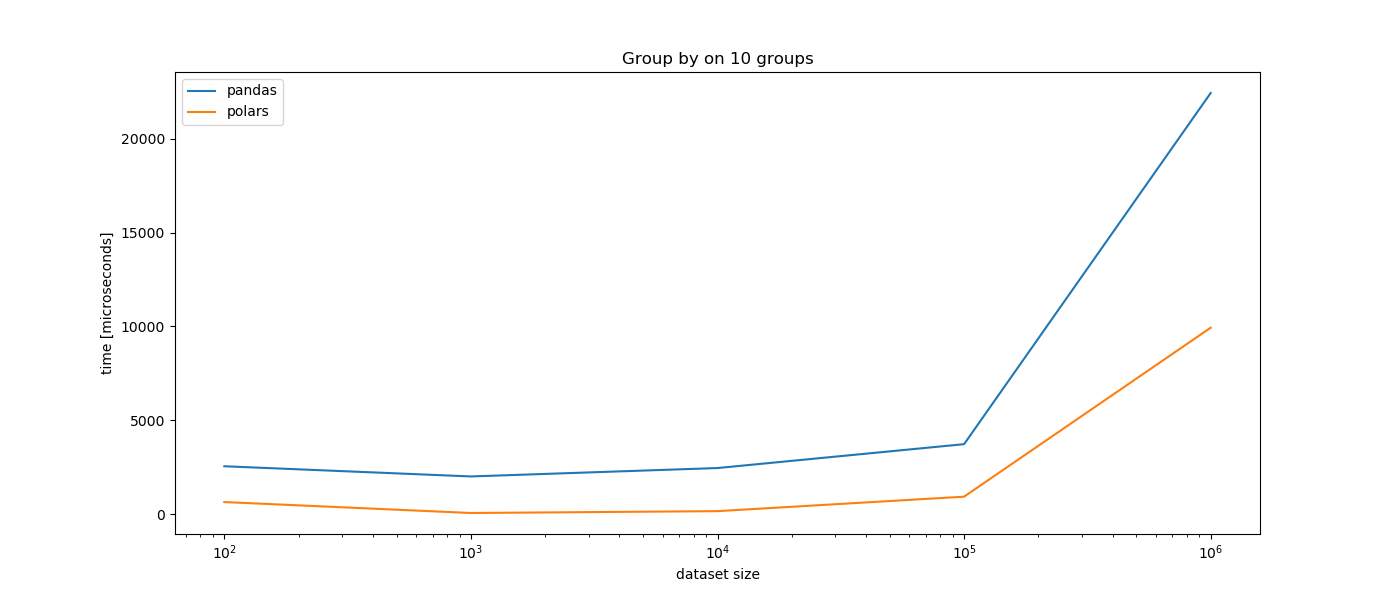
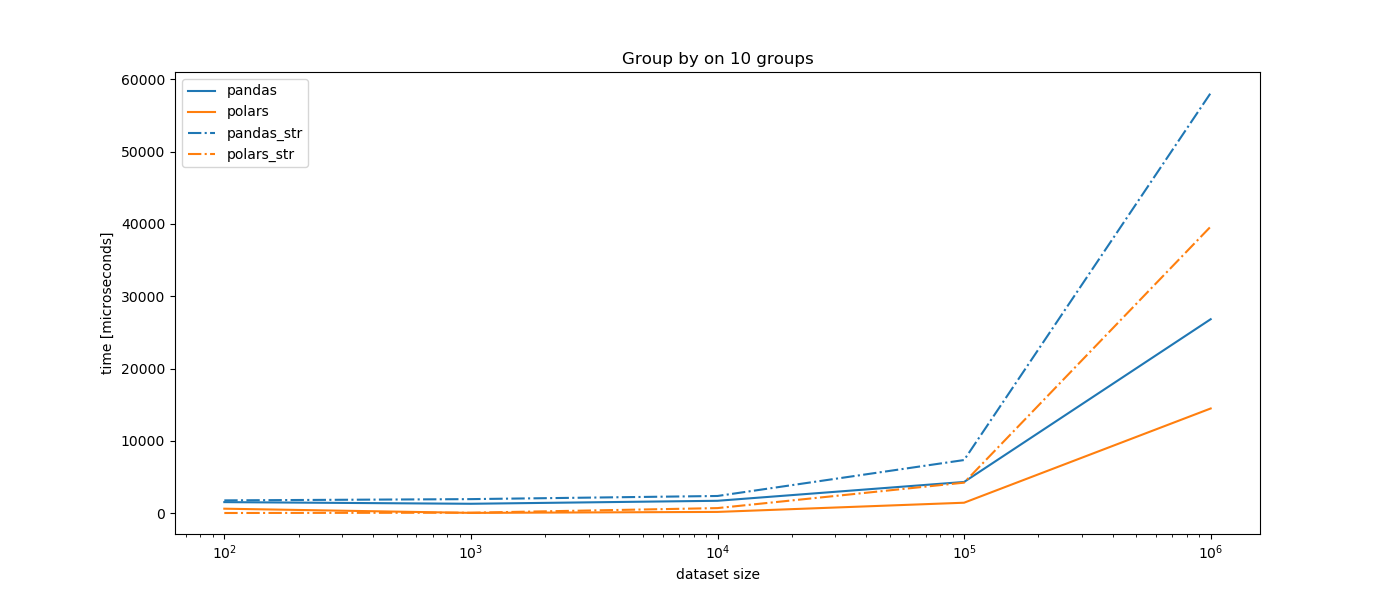
add string comparison for groupby

diff --git a/polars/src/series/series.rs b/polars/src/series/series.rs
@@ -400,30 +400,46 @@ pub trait NamedFrom<T> {
 
 macro_rules! impl_named_from {
     ($type:ty, $series_var:ident, $method:ident) => {
-        impl NamedFrom<&[$type]> for Series {
-            fn init(name: &str, v: &[$type]) -> Self {
+        impl NamedFrom<$type> for Series {
+            fn init(name: &str, v: $type) -> Self {
                 Series::$series_var(ChunkedArray::$method(name, v))
             }
         }
     };
 }
 
-impl_named_from!(&str, Utf8, new_utf8_from_slice);
-impl_named_from!(String, Utf8, new_utf8_from_slice);
-impl_named_from!(bool, Bool, new_from_slice);
-impl_named_from!(u32, UInt32, new_from_slice);
-impl_named_from!(i32, Int32, new_from_slice);
-impl_named_from!(i64, Int64, new_from_slice);
-impl_named_from!(f32, Float32, new_from_slice);
-impl_named_from!(f64, Float64, new_from_slice);
-impl_named_from!(Option<String>, Utf8, new_utf8_from_opt_slice);
-impl_named_from!(Option<&str>, Utf8, new_utf8_from_opt_slice);
-impl_named_from!(Option<bool>, Bool, new_from_opt_slice);
-impl_named_from!(Option<u32>, UInt32, new_from_opt_slice);
-impl_named_from!(Option<i32>, Int32, new_from_opt_slice);
-impl_named_from!(Option<i64>, Int64, new_from_opt_slice);
-impl_named_from!(Option<f32>, Float32, new_from_opt_slice);
-impl_named_from!(Option<f64>, Float64, new_from_opt_slice);
+impl_named_from!(&[&str], Utf8, new_utf8_from_slice);
+impl_named_from!(&Vec<&str>, Utf8, new_utf8_from_slice);
+impl_named_from!(&[String], Utf8, new_utf8_from_slice);
+impl_named_from!(&Vec<String>, Utf8, new_utf8_from_slice);
+impl_named_from!(&[bool], Bool, new_from_slice);
+impl_named_from!(&Vec<bool>, Bool, new_from_slice);
+impl_named_from!(&[u32], UInt32, new_from_slice);
+impl_named_from!(&Vec<u32>, UInt32, new_from_slice);
+impl_named_from!(&[i32], Int32, new_from_slice);
+impl_named_from!(&Vec<i32>, Int32, new_from_slice);
+impl_named_from!(&[i64], Int64, new_from_slice);
+impl_named_from!(&Vec<i64>, Int64, new_from_slice);
+impl_named_from!(&[f32], Float32, new_from_slice);
+impl_named_from!(&Vec<f32>, Float32, new_from_slice);
+impl_named_from!(&[f64], Float64, new_from_slice);
+impl_named_from!(&Vec<f64>, Float64, new_from_slice);
+impl_named_from!(&[Option<String>], Utf8, new_utf8_from_opt_slice);
+impl_named_from!(&Vec<Option<String>>, Utf8, new_utf8_from_opt_slice);
+impl_named_from!(&Vec<Option<&str>>, Utf8, new_utf8_from_opt_slice);
+impl_named_from!(&[Option<&str>], Utf8, new_utf8_from_opt_slice);
+impl_named_from!(&[Option<bool>], Bool, new_from_opt_slice);
+impl_named_from!(&Vec<Option<bool>>, Bool, new_from_opt_slice);
+impl_named_from!(&[Option<u32>], UInt32, new_from_opt_slice);
+impl_named_from!(&Vec<Option<u32>>, UInt32, new_from_opt_slice);
+impl_named_from!(&[Option<i32>], Int32, new_from_opt_slice);
+impl_named_from!(&Vec<Option<i32>>, Int32, new_from_opt_slice);
+impl_named_from!(&[Option<i64>], Int64, new_from_opt_slice);
+impl_named_from!(&Vec<Option<i64>>, Int64, new_from_opt_slice);
+impl_named_from!(&[Option<f32>], Float32, new_from_opt_slice);
+impl_named_from!(&Vec<Option<f32>>, Float32, new_from_opt_slice);
+impl_named_from!(&[Option<f64>], Float64, new_from_opt_slice);
+impl_named_from!(&Vec<Option<f64>>, Float64, new_from_opt_slice);
 
 macro_rules! impl_as_ref_ca {
     ($type:ident, $series_var:ident) => {

diff --git a/pandas_cmp/src/main.rs b/pandas_cmp/src/main.rs
@@ -1,11 +1,29 @@
 use glob::glob;
 use polars::prelude::*;
+use std::env;
 use std::fs::{canonicalize, File};
 use std::io::Write;
+use std::process::exit;
 use std::time::Instant;
 
-fn main() {
-    println!("Current directory: {:?}", canonicalize("."));
+fn read_df(f: &File) -> DataFrame {
+    let mut df = CsvReader::new(f)
+        .infer_schema(Some(100))
+        .has_header(true)
+        .finish()
+        .expect("dataframe");
+    let s = df
+        .f_select_mut("str")
+        .i64()
+        .expect("i64")
+        .iter()
+        .map(|v| v.map(|v| format!("{}", v)));
+    let s: Series = Series::init("str", &s.collect::<Vec<_>>());
+    df.replace("str", s);
+    df
+}
+
+fn bench_groupby() {
     let paths = glob("../data/1*.csv")
         .expect("valid glob")
         .map(|v| v.expect("path"));
@@ -13,22 +31,62 @@ fn main() {
     paths.sort();
 
     let mut wrt_file = File::create("../data/rust_bench.txt").expect("file");
+    let mut wrt_file_str = File::create("../data/rust_bench_str.txt").expect("file");
 
     for p in &paths {
         let f = File::open(p).expect("a csv file");
-        let df = CsvReader::new(f)
-            .infer_schema(Some(100))
-            .has_header(true)
-            .finish()
-            .expect("dataframe");
+        let df = read_df(&f);
 
         let now = Instant::now();
         let sum = df.groupby("groups").expect("gb").select("values").sum();
         let duration = now.elapsed().as_micros();
-        println!("{:?}", sum);
+
+        let now = Instant::now();
+        let sum_str = df.groupby("str").expect("gb").select("values").sum();
+        let duration_str = now.elapsed().as_micros();
+        println!("{:?}", (sum, sum_str));
         println!("{:?}", (p, duration));
         wrt_file
             .write(&format!("{}\n", duration).as_bytes())
             .expect("write to file");
+        wrt_file_str
+            .write(&format!("{}\n", duration_str).as_bytes())
+            .expect("write to file");
+    }
+}
+
+fn bench_join() {
+    let f = File::open("../data/100.csv").expect("file");
+    let df = read_df(&f);
+    println!("{:?}", df);
+}
+
+fn print_cli() {
+    println!(
+        "
+cargo run [args]
+
+args:
+        groupby
+        join
+        "
+    );
+}
+
+fn main() {
+    let args = env::args().collect::<Vec<_>>();
+    if args.len() == 1 {
+        print_cli();
+        exit(0)
+    }
+    println!("Current directory: {:?}", canonicalize("."));
+    match &args[1][..] {
+        "groupby" => bench_groupby(),
+        "join" => bench_join(),
+        other => {
+            println!("got {}. expected:", other);
+            print_cli();
+            exit(1)
+        }
     }
 }

diff --git a/polars/src/series/chunked_array/iterator.rs b/polars/src/series/chunked_array/iterator.rs
@@ -40,6 +40,7 @@ impl<T, S> ChunkIterState<'_, T, S>
 where
     T: ArrowPrimitiveType,
 {
+    #[inline]
     fn set_indexes(&mut self, arr: &dyn Array) {
         self.array_i += 1;
         if self.array_i >= arr.len() {
@@ -66,6 +67,7 @@ where
         }
     }
 
+    #[inline]
     fn out_of_bounds(&self) -> bool {
         self.chunk_i >= self.n_chunks
     }
@@ -116,11 +118,9 @@ where
 
         debug_assert!(self.array_string.is_some());
         let arr = unsafe { self.current_string.unsafe_unwrap() };
-
         let v = arr.value(self.array_i);
-        let ret = Some(v);
         self.set_indexes(arr);
-        ret
+        Some(v)
     }
 }
 
@@ -221,5 +221,16 @@ impl<'a> FromIterator<&'a str> for Utf8Chunked {
             builder.append_value(val).expect("could not append");
         }
         builder.finish()
+    }
+}
+
+#[cfg(test)]
+mod test {
+    use crate::prelude::*;
+
+    #[test]
+    fn out_of_bounds() {
+        let a = UInt32Chunked::new_from_slice("a", &[1, 2, 3]);
+        let v = a.iter().collect::<Vec<_>>();
     }
 }

diff --git a/polars/src/fmt.rs b/polars/src/fmt.rs
@@ -40,7 +40,7 @@ impl Debug for Series {
             Series::Utf8(a) => {
                 write![f, "Series: str \n[\n"]?;
                 a.iter().take(LIMIT).for_each(|v| {
-                    write!(f, "\t{}\n", &v[..LIMIT]).ok();
+                    write!(f, "\t\"{}\"\n", &v[..std::cmp::min(LIMIT, v.len())]).ok();
                 });
                 write![f, "]"]
             }
@@ -119,7 +119,7 @@ impl Display for AnyType<'_> {
             AnyType::F32(v) => fmt_float(f, width, *v),
             AnyType::F64(v) => fmt_float(f, width, *v),
             AnyType::Bool(v) => write!(f, "{:>width$}", v, width = width),
-            AnyType::Str(v) => write!(f, "{:>width$}", v, width = width),
+            AnyType::Str(v) => write!(f, "{:>width$}", format!("\"{}\"", v), width = width),
             AnyType::Date64(v) => write!(f, "{:>width$}", v, width = width),
             AnyType::Date32(v) => write!(f, "{:>width$}", v, width = width),
             AnyType::Time64(v, _) => write!(f, "{:>width$}", v, width = width),

diff --git a/pandas_cmp/plot_results.py b/pandas_cmp/plot_results.py
@@ -2,15 +2,21 @@ import matplotlib.pyplot as plt
 
 with open("../data/python_bench.txt") as f:
     pandas = [int(a) for a in f.read().split("\n")[:-1]]
+with open("../data/python_bench_str.txt") as f:
+    pandas_str = [int(a) for a in f.read().split("\n")[:-1]]
 
 with open("../data/rust_bench.txt") as f:
     polars = [int(a) for a in f.read().split("\n")[:-1]]
+with open("../data/rust_bench_str.txt") as f:
+    polars_str = [int(a) for a in f.read().split("\n")[:-1]]
 
 sizes = [1e2, 1e3, 1e4, 1e5, 1e6]
 
 plt.figure(figsize=(14, 6))
-plt.plot(sizes, pandas, label="pandas")
-plt.plot(sizes, polars, label="polars")
+plt.plot(sizes, pandas, label="pandas", color="C0")
+plt.plot(sizes, polars, label="polars", color="C1")
+plt.plot(sizes, pandas_str, label="pandas_str", color="C0", ls="-.")
+plt.plot(sizes, polars_str, label="polars_str", color="C1", ls="-.")
 plt.legend()
 plt.title("Group by on 10 groups")
 plt.ylabel("time [microseconds]")

diff --git a/pandas_cmp/bench_groupby.py b/pandas_cmp/bench_groupby.py
@@ -1,0 +1,22 @@
+import datetime
+import pandas as pd
+import glob
+
+files = glob.glob("../data/1*.csv")
+files.sort()
+with open("../data/python_bench.txt", 'w') as f:
+    with open("../data/python_bench_str.txt", 'w') as f_str:
+
+        for fn in files:
+            df = pd.read_csv(fn)
+            df = df.astype({'str': 'str'})
+            t0 = datetime.datetime.now()
+            res = df.groupby("groups").sum()
+            duration = datetime.datetime.now() - t0
+            print(fn, duration.microseconds, res)
+            f.write(f"{duration.microseconds}\n")
+
+            t0 = datetime.datetime.now()
+            res = df.groupby("str").sum()
+            duration = datetime.datetime.now() - t0
+            f_str.write(f"{duration.microseconds}\n")

diff --git a/polars/src/frame/mod.rs b/polars/src/frame/mod.rs
@@ -2,6 +2,7 @@ use crate::prelude::*;
 use arrow::datatypes::{Field, Schema};
 use arrow::{compute::TakeOptions, record_batch::RecordBatch};
 use itertools::Itertools;
+use std::mem;
 use std::sync::Arc;
 
 pub mod csv;
@@ -339,6 +340,14 @@ impl DataFrame {
             .iter()
             .map(|s| s.take(&take, None))
             .collect::<Result<Vec<_>>>()?;
+        Ok(())
+    }
+
+    /// Replace a column with a series.
+    pub fn replace(&mut self, column: &str, new_col: DfSeries) -> Result<()> {
+        let idx = self.find_idx_by_name(column).ok_or(PolarsError::NotFound)?;
+        mem::replace(&mut self.columns[idx], new_col);
+        self.update_schema();
         Ok(())
     }
 
